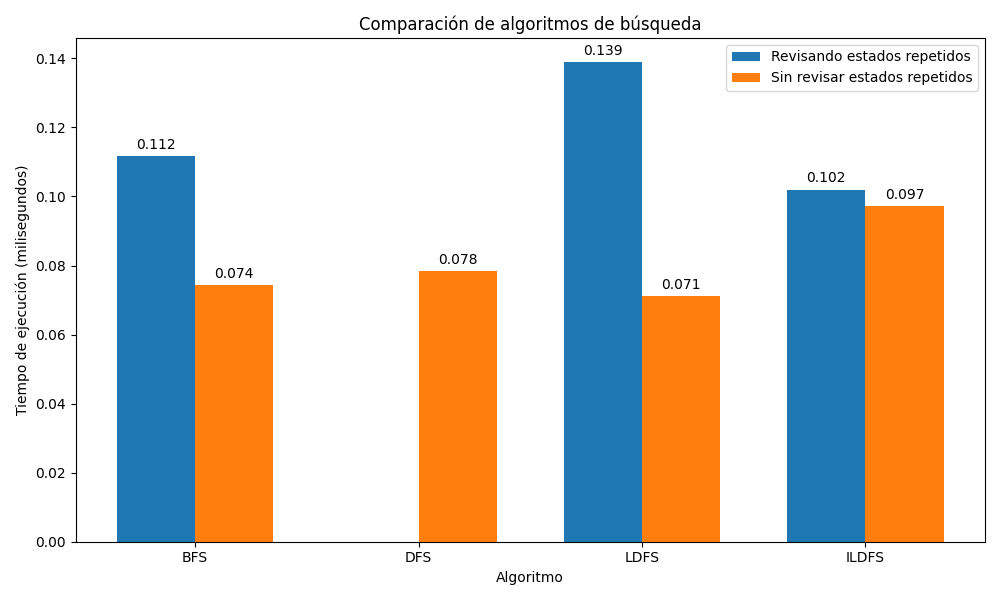
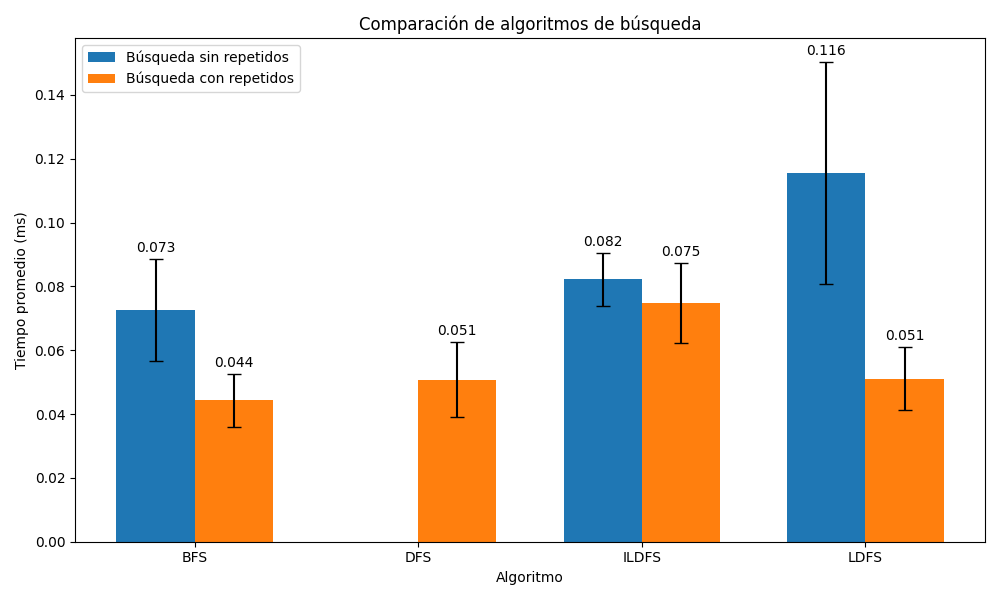
TP Búsqueda - Punto 2 - Múltiples iteraciones agregadas

diff --git a/TP Búsqueda/Rumania.py b/TP Búsqueda/Rumania.py
@@ -3,6 +3,7 @@ from simpleai.search.viewers import WebViewer
 import matplotlib.pyplot as plt
 import time
 import numpy as np
+import pandas as pd
 
 GOAL = "Bucharest"
 
@@ -71,12 +72,8 @@ class RomaniaProblem(SearchProblem):
 
 problem = RomaniaProblem(initial_state='Arad')
 viewer = None
-results = {
-    "BFS": [],
-    "DFS": [],
-    "LDFS": [],
-    "ILDFS": []
-}
+N_RUNS = 1000
+results = []
 
 
 for graph_search in [False, True]:
@@ -87,27 +84,56 @@ for graph_search in [False, True]:
     for alg_name, alg in algs.items():
         print(f'{alg_name}, graph_search: {graph_search}')
         if alg_name == 'DFS' and not graph_search:
-            results[alg_name].append(float('inf'))
+            results.append({
+                "algorithm": alg_name,
+                "mode": "Sin repetidos" if not graph_search else "Repetidos",
+                "time": float("inf")
+            })
             continue
-        start = time.perf_counter()
-        result = alg()
-        end = time.perf_counter()
-        results[alg_name].append(end-start)
+        for _ in range(N_RUNS):
+            start = time.perf_counter()
+            result = alg()
+            end = time.perf_counter()
+            results.append({
+                "algorithm": alg_name,
+                "mode": "Sin repetidos" if not graph_search else "Repetidos",
+                "time": (end - start) * 1000  # ms
+            })
 
-algorithms = list(results.keys())
-with_repeated = [results[a][0]*1000 for a in algorithms]
-without_repeated = [results[a][1]*1000 for a in algorithms]
+df = pd.DataFrame(results)
+stats = df.groupby(['algorithm', 'mode'])['time'].agg(
+    mean='mean',
+    std='std',
+    min='min',
+    max='max'
+)
+print(stats)
 
-x = np.arange(len(algorithms))
+pivot_mean = df.pivot_table(
+    index="algorithm",
+    columns="mode",
+    values="time",
+    aggfunc="mean"
+)
+pivot_std = df.pivot_table(
+    index="algorithm",
+    columns="mode",
+    values="time",
+    aggfunc="std"
+)
+x = np.arange(len(pivot_mean.index))
 width = 0.35
 
 plt.figure(figsize=(10,6))
 
-bars1 = plt.bar(x - width/2, with_repeated, width, label="Revisando estados repetidos")
-bars2 = plt.bar(x + width/2, without_repeated, width, label="Sin revisar estados repetidos")
+bars1 = plt.bar(x - width/2, pivot_mean["Sin repetidos"], width,
+                yerr=pivot_std["Sin repetidos"], capsize=5, label="Búsqueda sin repetidos")
 
-plt.xticks(x, algorithms)
-plt.ylabel("Tiempo de ejecución (milisegundos)")
+bars2 = plt.bar(x + width/2, pivot_mean["Repetidos"], width,
+                yerr=pivot_std["Repetidos"], capsize=5, label="Búsqueda con repetidos")
+
+plt.xticks(x, pivot_mean.index)
+plt.ylabel("Tiempo promedio (ms)")
 plt.xlabel("Algoritmo")
 plt.title("Comparación de algoritmos de búsqueda")
 plt.legend()
